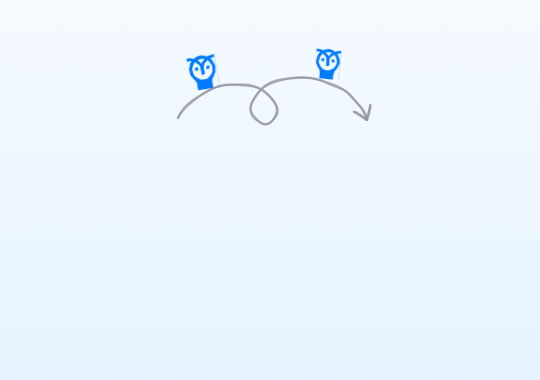
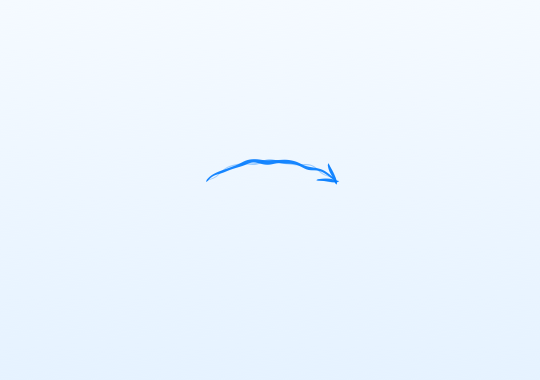
DMG background: one hand-drawn blue arrow from the app to Applications
The two owls and the grey looping line are gone. The line is drawn as a filled ribbon whose width swells in the
middle and thins at the ends, pushed off its path by seeded noise, with a lighter second pass that follows the
first loosely. The arrow head overshoots and crosses at the tip. The script no longer takes the SVG argument.

diff --git a/app/assets/make-dmg-bg.swift b/app/assets/make-dmg-bg.swift
@@ -1,19 +1,13 @@
-// Renders the DMG window background: a looping arrow from the app to Applications, with two small
-// Quorums walking along it in different strides.
-// usage: swiftc make-dmg-bg.swift -o make-dmg-bg && ./make-dmg-bg quorum-filled.svg <out-dir>
+// Renders the DMG window background: one hand-drawn blue line from the app to Applications, ending in an arrow.
+// usage: swiftc make-dmg-bg.swift -o make-dmg-bg && ./make-dmg-bg <out-dir>
 import AppKit
 
 let W: CGFloat = 540, H: CGFloat = 380
-let owlFill = NSColor(srgbRed: 0, green: 0.48, blue: 1, alpha: 1)
-let owl = NSImage(data: try! Data(contentsOf: URL(fileURLWithPath: CommandLine.arguments[1])))!
+let ink = NSColor(srgbRed: 0, green: 0.48, blue: 1, alpha: 1)
 
-// the arrow: four cubic segments with one loop in the middle, sitting above the two icons (AppKit y is up)
-let segs: [[NSPoint]] = [
-    [NSPoint(x: 178, y: 262), NSPoint(x: 196, y: 292), NSPoint(x: 236, y: 304), NSPoint(x: 262, y: 290)],
-    [NSPoint(x: 262, y: 290), NSPoint(x: 290, y: 274), NSPoint(x: 272, y: 246), NSPoint(x: 256, y: 260)],
-    [NSPoint(x: 256, y: 260), NSPoint(x: 240, y: 274), NSPoint(x: 262, y: 306), NSPoint(x: 306, y: 302)],
-    [NSPoint(x: 306, y: 302), NSPoint(x: 340, y: 299), NSPoint(x: 358, y: 282), NSPoint(x: 366, y: 262)],
-]
+// icons sit at (150,190) and (390,190) in Finder's top-left coordinates, 96pt wide; the line runs between them,
+// bowing upward a little (AppKit y is up)
+let curve: [NSPoint] = [NSPoint(x: 206, y: 198), NSPoint(x: 244, y: 226), NSPoint(x: 298, y: 226), NSPoint(x: 334, y: 200)]
 
 func bez(_ s: [NSPoint], _ t: CGFloat) -> NSPoint {
     let u = 1 - t
@@ -25,20 +19,39 @@ func tangent(_ s: [NSPoint], _ t: CGFloat) -> CGFloat {
     return atan2(b.y - a.y, b.x - a.x)
 }
 
-// the filled owl, tinted: paint the color, keep only the glyph's pixels
-func drawOwl(at p: NSPoint, height: CGFloat, angle: CGFloat) {
-    let w = height * owl.size.width / owl.size.height
-    let layer = NSImage(size: NSSize(width: w, height: height), flipped: false) { r in
-        owlFill.setFill(); r.fill()
-        owl.draw(in: r, from: .zero, operation: .destinationIn, fraction: 1)
-        return true
+// seeded smooth noise: three sines at unrelated frequencies, so the line wanders without repeating visibly
+func wobble(_ i: CGFloat, seed: CGFloat) -> CGFloat {
+    sin(i * 0.31 + seed) * 0.5 + sin(i * 0.11 + seed * 2.3) * 0.35 + sin(i * 0.53 + seed * 0.7) * 0.15
+}
+
+// a stroke drawn as a filled ribbon whose width swells in the middle and thins at both ends, like a marker that
+// lands lightly, presses, and lifts. Each sample is pushed off the path by the wobble
+func ribbon(_ points: [NSPoint], seed: CGFloat, amp: CGFloat, width: CGFloat) -> NSBezierPath {
+    var left: [NSPoint] = [], right: [NSPoint] = []
+    let n = points.count
+    for (i, pt) in points.enumerated() {
+        let a = i == 0 ? points[1] : points[i - 1], b = i == n - 1 ? points[i - 1] : points[i + 1]
+        let dx = b.x - a.x, dy = b.y - a.y, len = max(0.001, hypot(dx, dy))
+        let nx = -dy / len, ny = dx / len
+        let off = amp * wobble(CGFloat(i), seed: seed)
+        let t = CGFloat(i) / CGFloat(n - 1)
+        let press = 0.35 + 0.65 * sin(t * .pi)
+        let w = width * press * (1 + 0.25 * wobble(CGFloat(i) * 1.7, seed: seed + 9)) / 2
+        let c = NSPoint(x: pt.x + nx * off, y: pt.y + ny * off)
+        left.append(NSPoint(x: c.x + nx * w, y: c.y + ny * w))
+        right.append(NSPoint(x: c.x - nx * w, y: c.y - ny * w))
     }
-    NSGraphicsContext.saveGraphicsState()
-    var m = AffineTransform(translationByX: p.x, byY: p.y)
-    m.rotate(byRadians: angle)
-    (m as NSAffineTransform).concat()
-    layer.draw(in: NSRect(x: -w / 2, y: 0, width: w, height: height))
-    NSGraphicsContext.restoreGraphicsState()
+    let p = NSBezierPath()
+    p.move(to: left[0])
+    for q in left.dropFirst() { p.line(to: q) }
+    for q in right.reversed() { p.line(to: q) }
+    p.close()
+    p.lineJoinStyle = .round
+    return p
+}
+
+func straight(_ from: NSPoint, _ to: NSPoint, steps: Int = 14) -> [NSPoint] {
+    (0...steps).map { i in let t = CGFloat(i) / CGFloat(steps); return NSPoint(x: from.x + (to.x - from.x) * t, y: from.y + (to.y - from.y) * t) }
 }
 
 func render(scale: CGFloat) -> NSBitmapImageRep {
@@ -47,63 +60,34 @@ func render(scale: CGFloat) -> NSBitmapImageRep {
     rep.size = NSSize(width: W, height: H)
     NSGraphicsContext.saveGraphicsState()
     NSGraphicsContext.current = NSGraphicsContext(bitmapImageRep: rep)
-    // soft blue wash so the window feels like Quorum, light enough for Finder's black icon labels
+    // soft blue wash, light enough for Finder's black icon labels
     NSGradient(starting: NSColor(srgbRed: 0.96, green: 0.98, blue: 1, alpha: 1), ending: NSColor(srgbRed: 0.9, green: 0.95, blue: 1, alpha: 1))!
         .draw(in: NSRect(x: 0, y: 0, width: W, height: H), angle: -90)
 
-    // hand-drawn look: walk the curve, nudge each point off the line by a smooth, seeded wobble, and stroke it
-    // twice with slightly different wobbles like a pencil going over a line
     var pts: [NSPoint] = []
-    for sgm in segs { for i in 0..<40 { pts.append(bez(sgm, CGFloat(i) / 40)) } }
-    pts.append(segs[3][3])
-    func sketch(_ points: [NSPoint], seed: CGFloat, amp: CGFloat) -> NSBezierPath {
-        let p = NSBezierPath()
-        for (i, pt) in points.enumerated() {
-            let a = i == 0 ? points[1] : points[i - 1], b = i == points.count - 1 ? points[i - 1] : points[i + 1]
-            let dx = b.x - a.x, dy = b.y - a.y, len = max(0.001, hypot(dx, dy))
-            let wob = amp * (sin(CGFloat(i) * 0.37 + seed) * 0.6 + sin(CGFloat(i) * 0.13 + seed * 2.1) * 0.4)
-            let q = NSPoint(x: pt.x - dy / len * wob, y: pt.y + dx / len * wob)
-            if i == 0 { p.move(to: q) } else { p.line(to: q) }
-        }
-        p.lineCapStyle = .round
-        p.lineJoinStyle = .round
-        return p
-    }
-    let grey = NSColor(srgbRed: 0.55, green: 0.55, blue: 0.6, alpha: 1)
-    for (seed, width, alpha) in [(0.0, 2.4, 0.75), (1.7, 1.3, 0.45)] as [(CGFloat, CGFloat, CGFloat)] {
-        let line = sketch(pts, seed: seed, amp: 0.9)
-        line.lineWidth = width
-        grey.withAlphaComponent(alpha).setStroke()
-        line.stroke()
-    }
+    for i in 0...72 { pts.append(bez(curve, CGFloat(i) / 72)) }
 
-    // a hand-drawn > at the end, pointing along the curve
-    let end = segs[3][3]
-    let a = tangent(segs[3], 1)
-    let arm: CGFloat = 15, spread: CGFloat = 0.62
-    let tip = NSPoint(x: end.x + 2 * cos(a), y: end.y + 2 * sin(a))
-    let wing1 = NSPoint(x: tip.x - arm * cos(a - spread), y: tip.y - arm * sin(a - spread))
-    let wing2 = NSPoint(x: tip.x - arm * cos(a + spread), y: tip.y - arm * sin(a + spread))
-    func strokeLine(_ from: NSPoint, _ to: NSPoint) -> [NSPoint] { (0...8).map { i in let t = CGFloat(i) / 8; return NSPoint(x: from.x + (to.x - from.x) * t, y: from.y + (to.y - from.y) * t) } }
-    for (seed, width, alpha) in [(0.4, 2.6, 0.8), (2.2, 1.3, 0.45)] as [(CGFloat, CGFloat, CGFloat)] {
-        grey.withAlphaComponent(alpha).setStroke()
-        for side in [wing1, wing2] {
-            let l = sketch(strokeLine(side, tip), seed: seed, amp: 0.5)
-            l.lineWidth = width
-            l.stroke()
-        }
-    }
+    // the line: a solid pass, then a thinner lighter pass with its own wobble, the way a second stroke never
+    // quite follows the first
+    ink.withAlphaComponent(0.9).setFill(); ribbon(pts, seed: 0.0, amp: 2.2, width: 3.8).fill()
+    ink.withAlphaComponent(0.35).setFill(); ribbon(pts, seed: 2.9, amp: 3.0, width: 1.6).fill()
 
-    // two owls perched on the curve, tilted a little with the slope
-    for (seg, t, size) in [(0, 0.38, 34.0), (3, 0.22, 30.0)] as [(Int, CGFloat, CGFloat)] {
-        let at = bez(segs[seg], t)
-        drawOwl(at: NSPoint(x: at.x, y: at.y + 3), height: size, angle: tangent(segs[seg], t) * 0.35)
+    // the arrow head: two strokes that run past the tip and cross, as a quick hand draws it
+    let end = curve[3]
+    let a = tangent(curve, 1)
+    let arm: CGFloat = 19, spread: CGFloat = 0.58, over: CGFloat = 4
+    let tip = NSPoint(x: end.x + 1.5 * cos(a), y: end.y + 1.5 * sin(a))
+    for (side, seed) in [(a - spread, 4.1), (a + spread, 6.3)] as [(CGFloat, CGFloat)] {
+        let from = NSPoint(x: tip.x - arm * cos(side), y: tip.y - arm * sin(side))
+        let to = NSPoint(x: tip.x + over * cos(side), y: tip.y + over * sin(side))
+        ink.withAlphaComponent(0.9).setFill(); ribbon(straight(from, to), seed: seed, amp: 0.8, width: 3.2).fill()
+        ink.withAlphaComponent(0.35).setFill(); ribbon(straight(from, to), seed: seed + 1.3, amp: 1.2, width: 1.4).fill()
     }
     NSGraphicsContext.restoreGraphicsState()
     return rep
 }
 
-let out = URL(fileURLWithPath: CommandLine.arguments[2])
+let out = URL(fileURLWithPath: CommandLine.arguments[1])
 for (scale, name) in [(1.0, "dmg-background.png"), (2.0, "dmg-background@2x.png")] as [(CGFloat, String)] {
     try! render(scale: scale).representation(using: .png, properties: [:])!.write(to: out.appendingPathComponent(name))
 }
